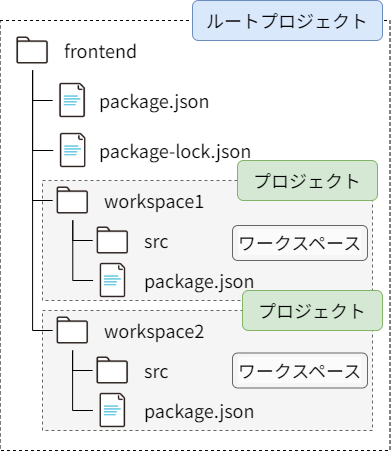
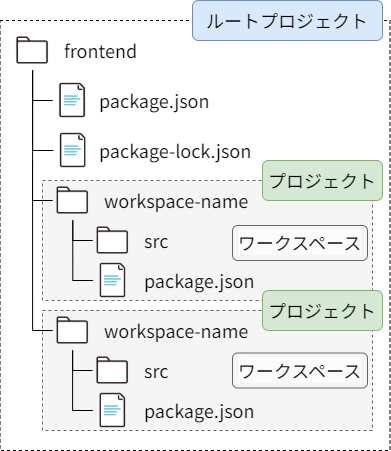
ワークスペース名を指定するコード例および画像について、表記をworkspace-nameに統一する ルートプロジェクト名を指定する箇所について、root-project-nameに統一する

Changed region(s): [[0.491, 0.3415, 0.9821, 0.4656], [0.491, 0.6208, 0.9514, 0.7761]]

diff --git a/documents/contents/guidebooks/how-to-develop/dotnet/configure-asp-net-core-with-vite-project.md b/documents/contents/guidebooks/how-to-develop/dotnet/configure-asp-net-core-with-vite-project.md
@@ -32,11 +32,11 @@ ASP.NET Core with Vite プロジェクトを実行したとき、適切なフロ
 
 ASP.NET Core with Vite プロジェクトのプロジェクトファイルを開き、 `#!xml <SpaRoot>` プロパティの値を変更します。
 上記の例のような配置の場合、 [AaaSubSystem.Web.csproj] から、フロントエンドアプリケーションを配置したルートフォルダー [frontend] に対する相対パスを設定します。
-続けて、`#!xml <SpaRootWorkspace>`  プロパティを追加し、プロジェクトフォルダー [workspace] に対する相対パスを設定します。
+続けて、`#!xml <SpaRootWorkspace>`  プロパティを追加し、プロジェクトフォルダー [workspace-name] に対する相対パスを設定します。
 
 ```xml title="ASP.NET Core with Vite プロジェクト ( AaaSubSystem.Web.csproj )"
 <SpaRoot>..\..\..\frontend\</SpaRoot>
-<SpaWorkspace>$(SpaRoot)workspace\</SpaWorkspace>
+<SpaWorkspace>$(SpaRoot)workspace-name\</SpaWorkspace>
 ```
 
 ### フロントエンドアプリケーションの参照削除 {#remove-frontend-folder-reference}
@@ -64,7 +64,7 @@ ASP.NET Core with Vite プロジェクトのプロジェクトファイルには
 設定箇所は ASP.NET Core with Vite プロジェクトのプロジェクトファイル内、 `#!xml <SpaProxyLaunchCommand>` プロパティです。
 
 ```xml title="フロントエンドアプリケーションの起動コマンドの設定例 ( AaaSubSystem.Web.csproj )"
-<SpaProxyLaunchCommand>npm run dev:workspace</SpaProxyLaunchCommand>
+<SpaProxyLaunchCommand>npm run dev:workspace-name</SpaProxyLaunchCommand>
 ```
 
 [^1]: フォルダー名は適宜変更してください。

diff --git a/documents/contents/guidebooks/how-to-develop/publication/index.md b/documents/contents/guidebooks/how-to-develop/publication/index.md
@@ -69,7 +69,7 @@ interface ImportMeta {
 ```json title="package.json（ルート）"
 {
   "scripts": {
-    "build:prod:sample": "run build:prod -w sample",
+    "build:prod:workspace-name": "run build:prod -w workspace-name",
   }
 }
 ```
@@ -117,8 +117,8 @@ app.Run();
 ```xml title="StartUp.csproj"
 <Project Sdk="Microsoft.NET.Sdk.Web">
  <PropertyGroup>
-   <SpaRoot>[ClientAppRoot]</SpaRoot>
-   <SpaWorkspace>$(SpaRoot)[WorkSpace]</SpaWorkspace>
+   <SpaRoot>..\..\..\frontend\</SpaRoot>
+   <SpaWorkspace>$(SpaRoot)workspace-name</SpaWorkspace>
  </PropertyGroup>
 
   ...
@@ -126,7 +126,7 @@ app.Run();
  <Target Name="PublishRunWebpack" AfterTargets="ComputeFilesToPublish">
    <!-- As part of publishing, ensure the JS resources are freshly built in production mode -->
    <Exec WorkingDirectory="$(SpaRoot)" Command="npm install" />
-   <Exec WorkingDirectory="$(SpaRoot)" Command="npm run build:prod:sample" />
+   <Exec WorkingDirectory="$(SpaRoot)" Command="npm run build:prod:workspace-name" />
 
    <!-- Include the newly-built files in the publish output -->
    <ItemGroup>

diff --git a/documents/contents/guidebooks/how-to-develop/vue-js/setting-workspaces.md b/documents/contents/guidebooks/how-to-develop/vue-js/setting-workspaces.md
@@ -57,12 +57,12 @@ CI パイプラインで使用するために、ルートプロジェクトの p
 ``` json title="package.json（ルート）"
 {
   "scripts": {
-    "lint:ci:consumer": "npm run lint:ci -w consumer",
-    "type-check:consumer": "npm run type-check -w consumer",
-    "build-only:dev:consumer": "npm run build-only:dev -w consumer",
-    "build:prod:consumer": "npm run build:prod -w consumer",
-    "test:unit:consumer": "npm run test:unit -w consumer",
-    "dev:consumer": "npm run dev -w consumer"
+    "lint:ci:workspace-name": "npm run lint:ci -w workspace-name",
+    "type-check:workspace-name": "npm run type-check -w workspace-name",
+    "build-only:dev:workspace-name": "npm run build-only:dev -w workspace-name",
+    "build:prod:workspace-name": "npm run build:prod -w workspace-name",
+    "test:unit:workspace-name": "npm run test:unit -w workspace-name",
+    "dev:workspace-name": "npm run dev -w workspace-name"
   },
 }
 ```

diff --git a/documents/contents/guidebooks/how-to-develop/vue-js/create-vuejs-blank-project.md b/documents/contents/guidebooks/how-to-develop/vue-js/create-vuejs-blank-project.md
@@ -31,7 +31,7 @@ npm init -y
 ```terminal
 Wrote to ...\package.json:
 {
-  "name": "project-name",
+  "name": "root-project-name",
   "version": "1.0.0",
   "description": "",
   "main": "index.js",
